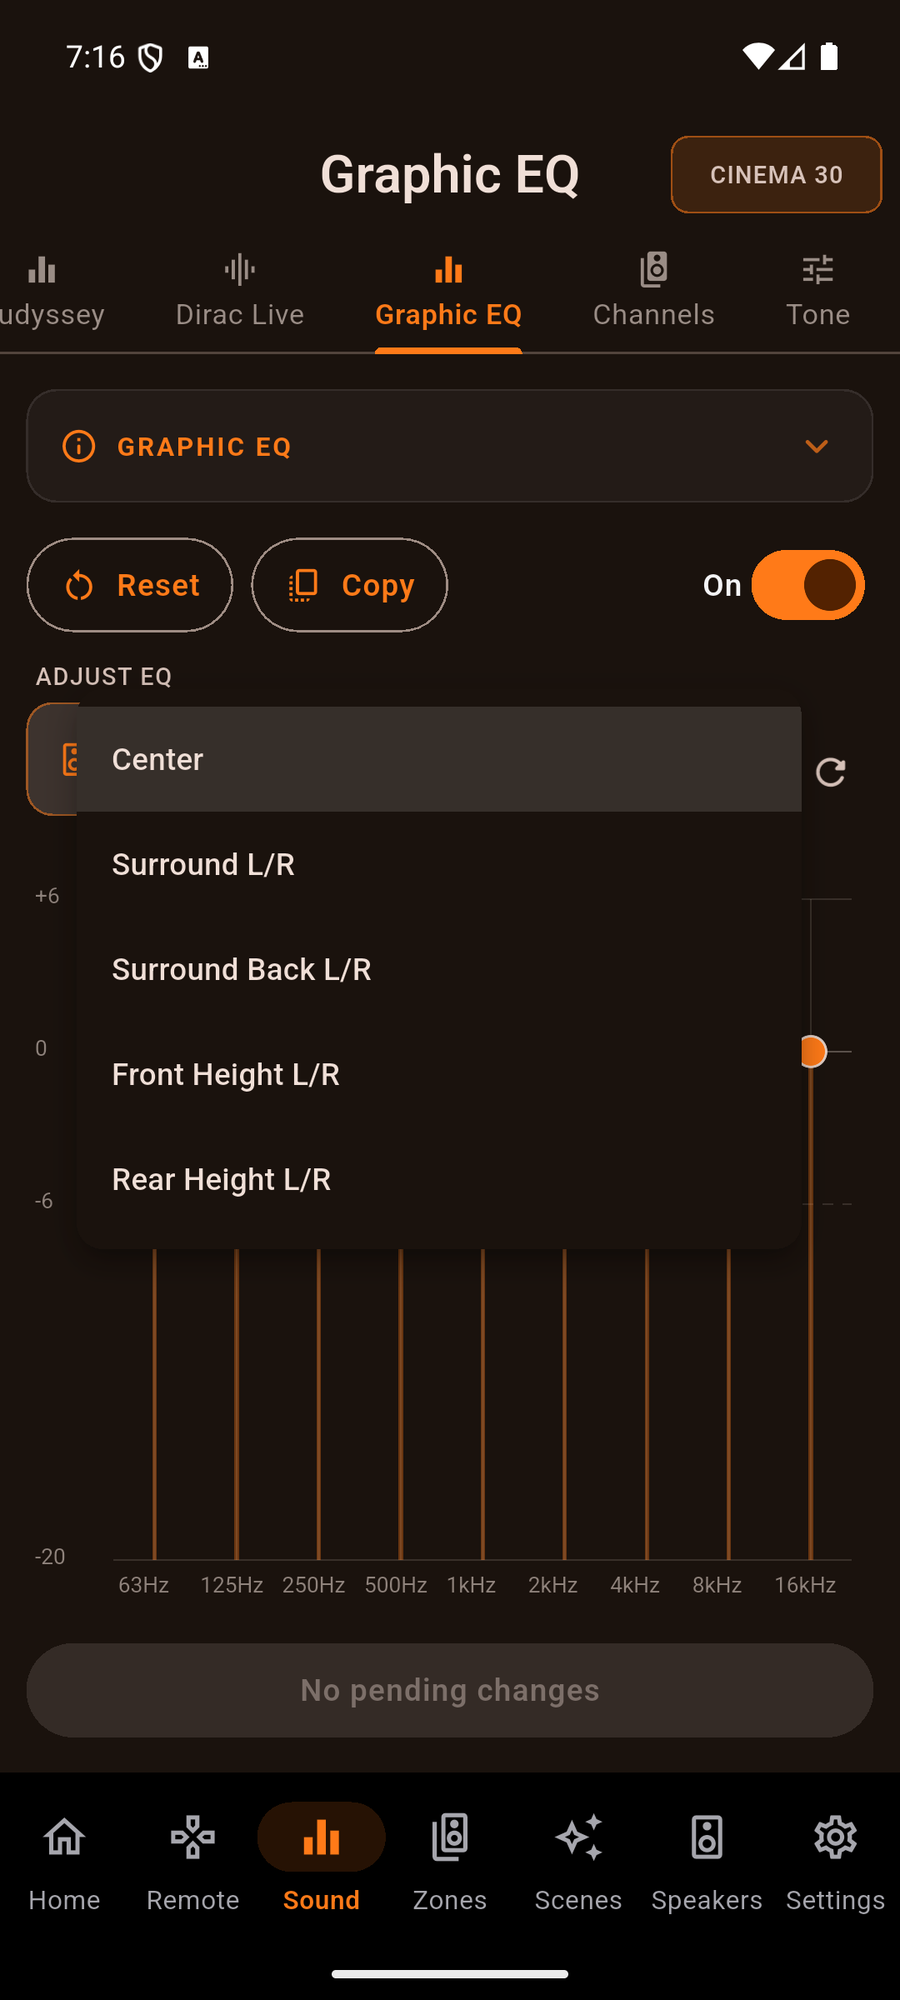
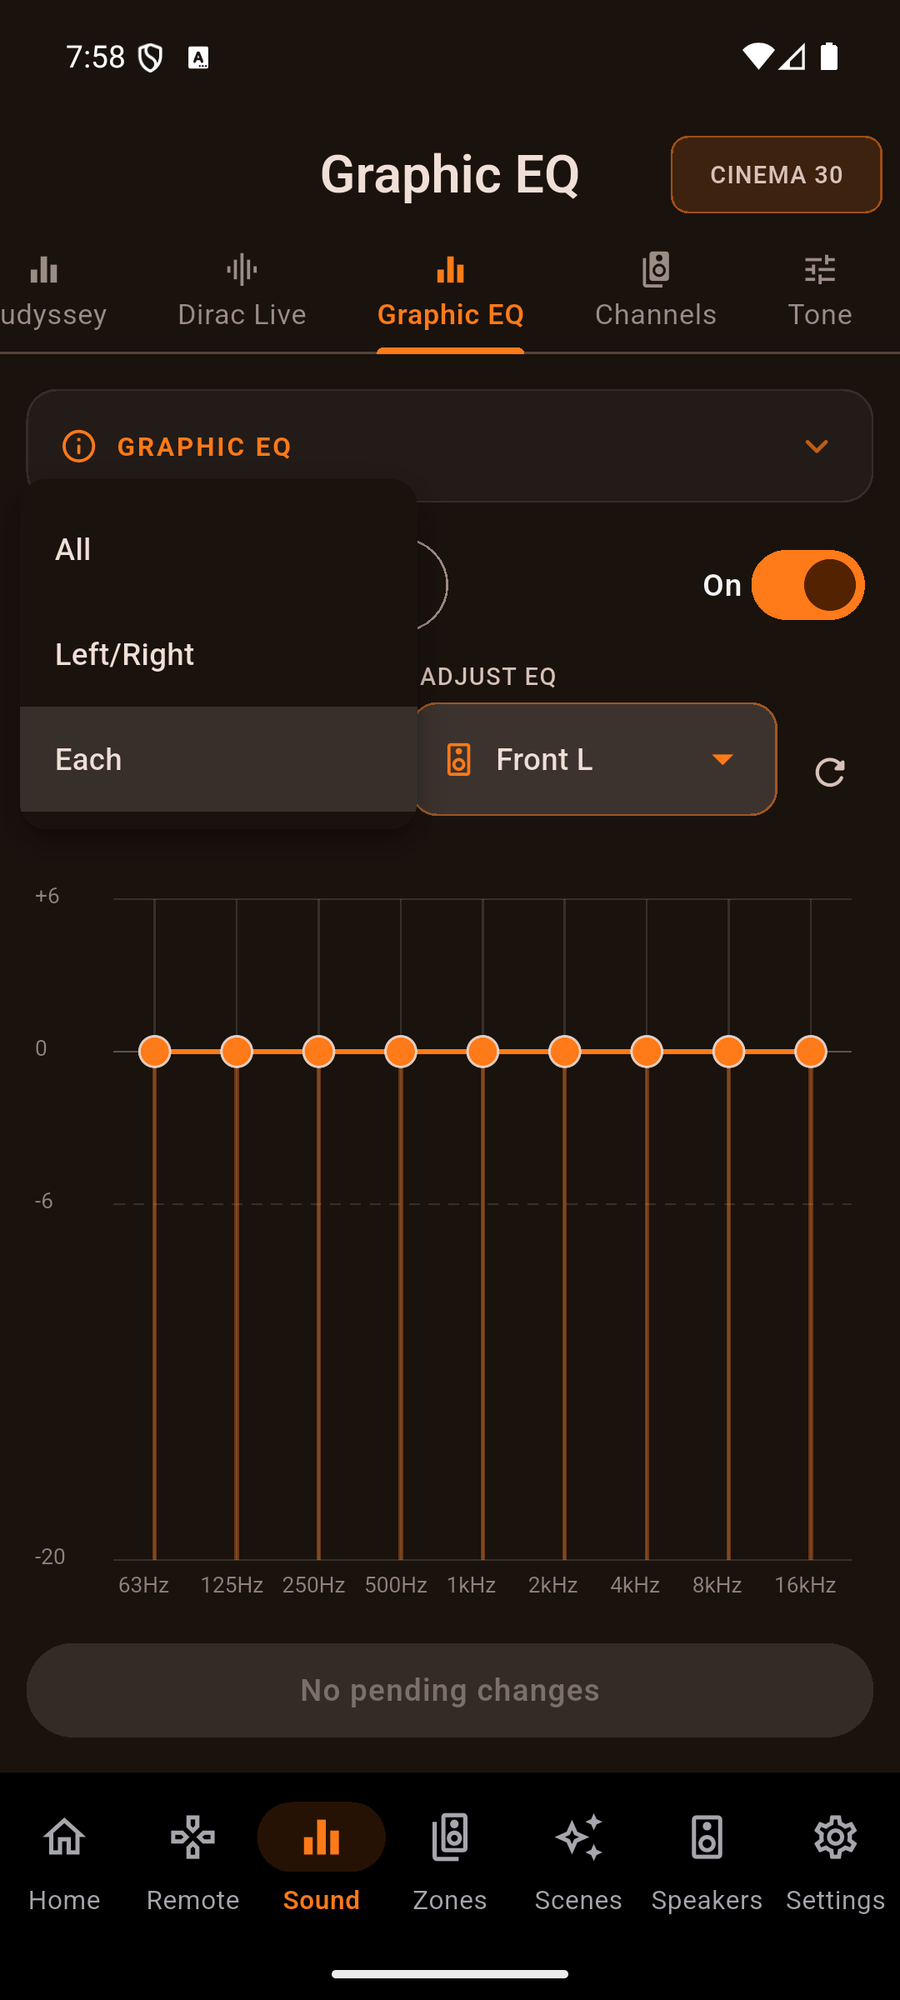
docs(graphic-eq): the real deal - both dropdowns + a curve
Main shot now shows Speaker Selection + Adjust EQ together with a custom
curve; second shot is the Speaker Selection dropdown (All/Left-Right/Each).
Captured live from the Cinema 30 (pending edits only, never applied).

diff --git a/docs/guide/graphic-eq/index.html b/docs/guide/graphic-eq/index.html
@@ -86,7 +86,7 @@
   <div class="wrap">
     <div class="gallery">
       <figure><img alt="The AVR Maestro Graphic EQ editor with a custom 9-band curve" src="../../screenshots/graphic-eq.png" /><figcaption>Drag the 9 bands to shape the curve</figcaption></figure>
-      <figure><img alt="The Graphic EQ speaker picker - choose which speaker to tune" src="../../screenshots/graphic-eq-speaker.png" /><figcaption>Pick the speaker to tune</figcaption></figure>
+      <figure><img alt="The Graphic EQ Speaker Selection dropdown - All, Left/Right or Each" src="../../screenshots/graphic-eq-speaker.png" /><figcaption>Group speakers: All, Left/Right or Each</figcaption></figure>
     </div>
     <div class="section-head" style="margin-top:36px">
       <h2>Shape the sound, band by band</h2>
